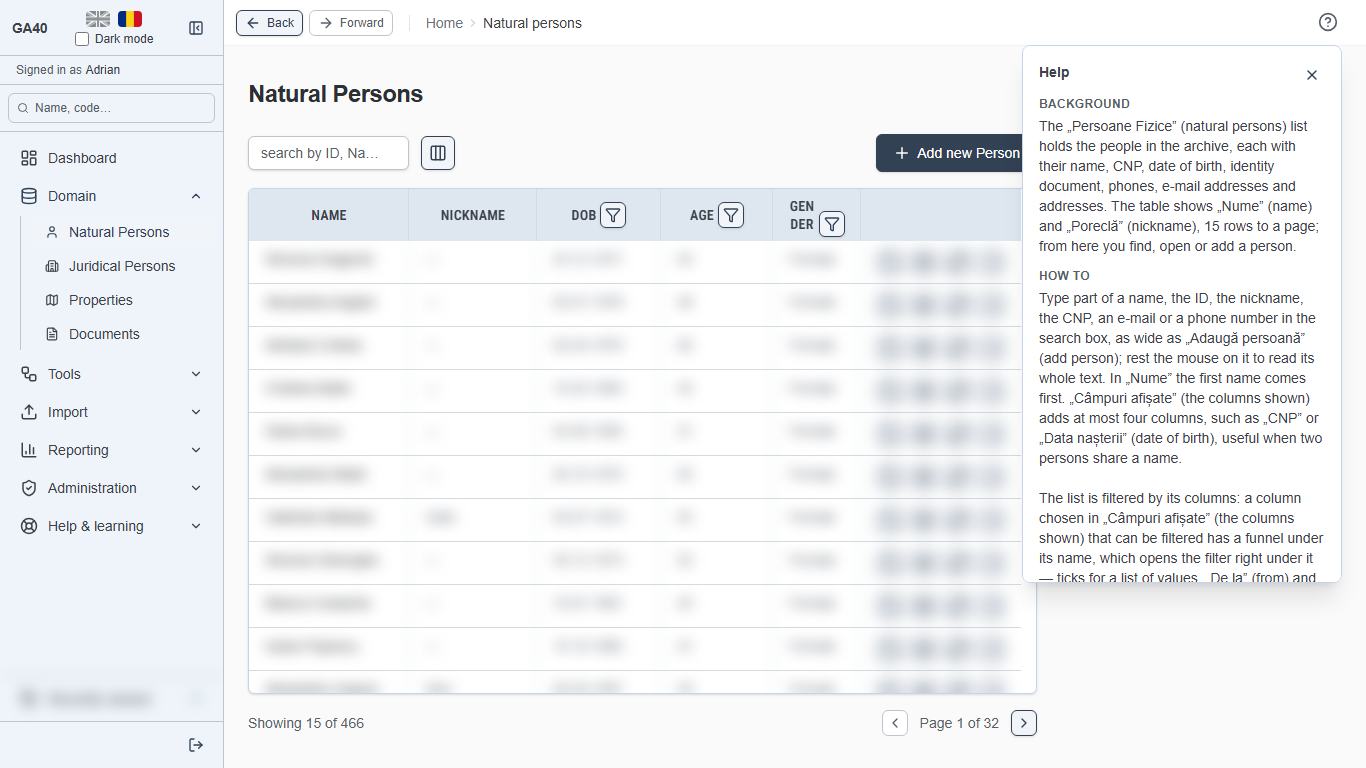
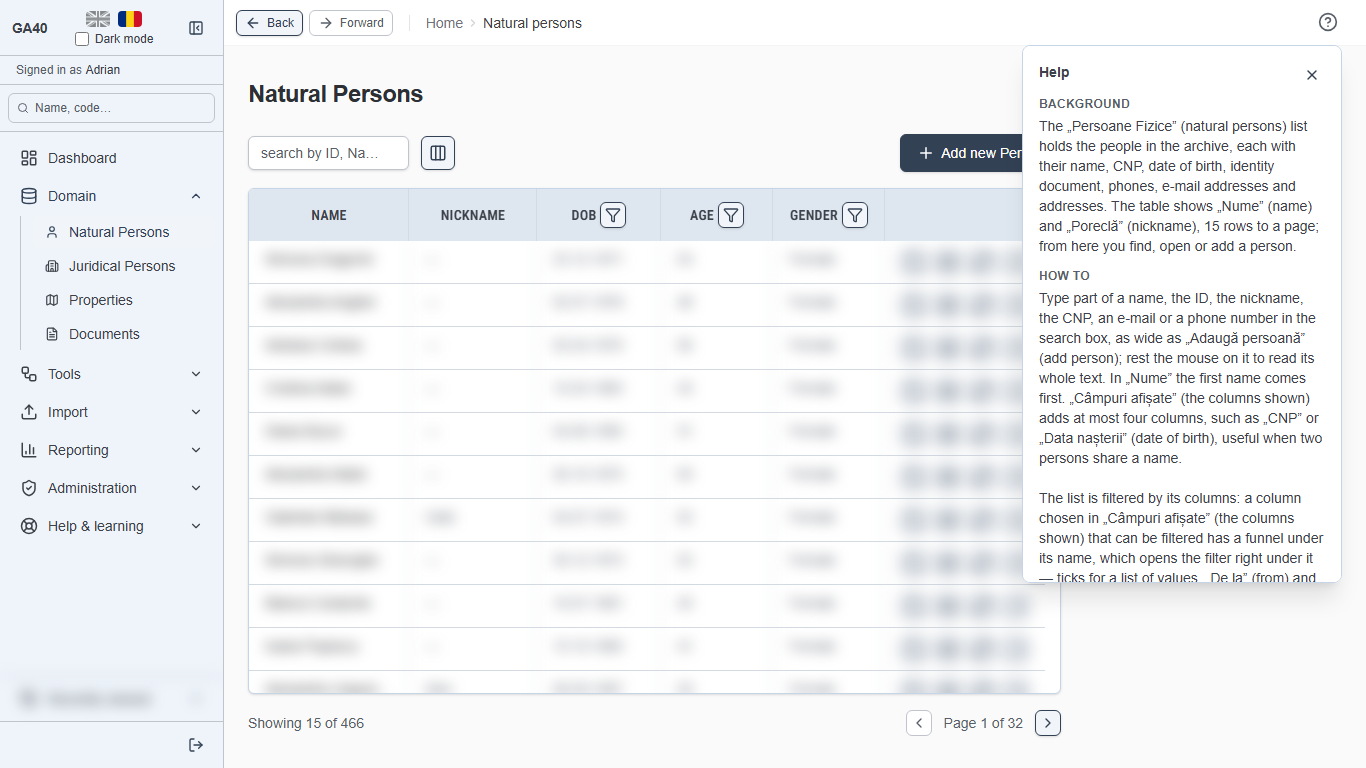
docs(manual): the figures re-shot on 2280c55; FU-361 filed
Every figure from the runner's e2e/help/manual.spec.ts on 2280c55 (20261021T223423Z-25076): Figure 2.2 now
shows „Mod întunecat" ticked, Figure 2.7 has no hint over the held name, the English 2.4 shows „GENDER" whole
beside its funnel (b8764322). Seed records only, the dashboard's lists and the CNP blurred by the spec, as
before; no identity field in any of them.

FU-361: the sidebar's title-case „Persoane Fizice" beside the screens' plural „Persoane fizice" (40.22).

Claude-Session: https://claude.ai/code/session_012kzTXMhZsYmrQH3STjJnsm

diff --git a/docs/claude/FOLLOW-UP-REGISTER.md b/docs/claude/FOLLOW-UP-REGISTER.md
@@ -12,7 +12,7 @@ are not repeated here either — `CATALOGUE_NOT_YET` in `src/lib/testing/catalog
 list, and one row below points at it.
 
 <!-- summary:begin -->
-As of 2026-10-21 — 360 entries (FU-360 filed by 40.18). Rows are status, columns are impact.
+As of 2026-10-21 — 361 entries (FU-360 filed by 40.18, FU-361 by 40.27). Rows are status, columns are impact.
 
 | Status | data | user | dev | cosmetic | Total |
 |---|---:|---:|---:|---:|---:|
@@ -444,3 +444,4 @@ Nothing is filed from memory: every row carries evidence someone actually looked
 | FU-358 | 2026-10-19 #39.93 Handover.39.93.md | recommendation | Help | No light bulb explains the tile gestures — dragging by empty space, the double-click rise, and holding a tile over another so it makes room (#39.91) — although the manual's 2.8 says a gesture that does not show is explained by one; only the „?” texts and the manual do. A bulb is a registered hint (HELP_HINTS) placed on the tile screens, plus its text in „Informații de ajutor”, which is code, so #39.93 did not add it. | src/lib/help/registry.ts — HELP_HINTS „Tiles” holds only tile-selector; src/lib/manual/content/ro-RO/02-start.ts — 2.8 | user | S | open | One hint, „tile-drag”, on the screens through TileAreas and TileUnitRow, beside the tick boxes; its text proposed in the handover. | 2026-10-19 |
 | FU-359 | 2026-10-20 #40.01 Handover.40.01.md | defect | Documents | On „Acte" at a narrow window the filter group („Tip document:", the sign, „Câmp specific:" and its ⓘ — 603 px, one item that never wraps apart) is wider than the space the toolbar's controls leave beside „Adaugă act": at 1000 px it wraps onto its own line as asked, but ends 30 px past the controls' box (nothing overlaps); about 100 px narrower it would reach past the toolbar and scroll the page sideways. | src/app/documents/list-view.tsx — `data-toolbar-controls`, `data-filter-fixed` (flex-nowrap, shrink-0); measured in the browser pane at 1000 × 900 | user | XS | open | Let the group's „Câmp specific" part wrap under „Tip document:" (still together) below the width where the group fits a line, or narrow the type button's 14 rem there. | 2026-10-20 |
 | FU-360 | 2026-10-21 40.18 Handover.40.18.md | recommendation | UI shell | Six tables outside the seven kinds 40.05 pictured still draw their column names in 12-px Arial, medium, in fade (zinc-400 dark) on today's band or none: „Calcul → Istoric" (the history list and three tables of a run) and „Tarla" (its list and three tables of a tarla). Giving them `COLUMN_NAMES_BAND` (or `COLUMN_NAMES_TYPE` where there is no band) would make every column name in the app alternative 13's. | src/app/admin/calculation/history/_components/calculation-history-list.tsx:107; src/app/admin/calculation/history/[id]/_components/calculation-run-detail.tsx:298, 374, 460; src/app/tarlale/_components/tarla-list.tsx:44; src/app/tarlale/_components/tarla-detail.tsx:307, 371, 416 | cosmetic | XS | open | Read `COLUMN_NAMES_BAND` from src/lib/ui/title-type.ts in the eight theads; ask Adrian first whether the fade was deliberate. | 2026-10-21 |
+| FU-361 | 2026-10-21 40.27 Handover.40.27.md | copy/i18n | UI shell | The sidebar still names the two persons' lists in title case, „Persoane Fizice” / „Persoane Juridice” (EN „Natural Persons” / „Juridical Persons”), while 40.22 made their screens' titles „Persoane fizice” / „Persoane juridice”; the breadcrumb already says „Persoane fizice”. Each name is right on its own; side by side in the manual's figures (2.1, 2.4) they read as two spellings of one list. | messages/ro-RO.json `nav.*` (the sidebar's Domeniu entries); messages/en-GB.json the same | cosmetic | XS | open | Ask Adrian whether the sidebar follows 40.22 („Persoane fizice”) or keeps title case; then the two message values, the manual's quotes of them and the specs that read the sidebar by name. | 2026-10-21 |
